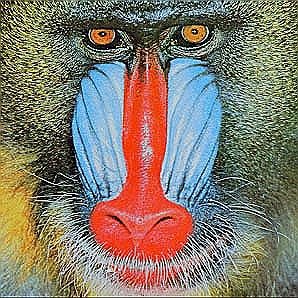
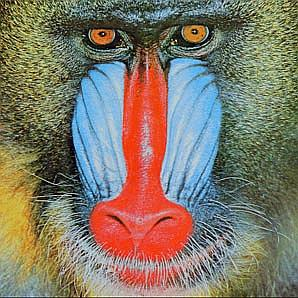
Vingett finished
Also changed kernels to the values given in the assigment and the coresponding normalising factor

diff --git a/Week_5_6/A2.java b/Week_5_6/A2.java
@@ -27,15 +27,15 @@ public class A2 {
     public static void blur(final Picture input) {
         Picture pic = new Picture(input);
         
-        //gausian blur aproximation
+        //Box blur (normalized)
         // https://en.wikipedia.org/wiki/Kernel_(image_processing)#Details
         int[][] kernel = {
-                { 1, 2, 1 },
-                { 2, 4, 2 },
-                { 1, 2, 1 }
+                { 1, 1, 1 },
+                { 1, 1, 1 },
+                { 1, 1, 1 }
         };
 
-        double normalFactor = 0.0625; //mutiply this later on to normalize the matrix(?) so the avrage values/brighness of the images does not unexpectadly increase.
+        double normalFactor = 9; //devide by this later on to normalize the matrix(?) so the avrage values/brighness of the images does not unexpectadly increase.
 
         for (int x = 1; x < input.width() - 1; x++) {
             for (int y = 1; y < input.height() - 1; y++) { 
@@ -54,15 +54,15 @@ public class A2 {
                 }
 
                 //for future. optamize this using a vector3 for each channel value. so instead of three version of each variable you only have a vector3. 
-                double totalR = acumulatorR * normalFactor;
-                double totalG = acumulatorG * normalFactor;
-                double totalB = acumulatorB * normalFactor;
+                double totalR = acumulatorR / normalFactor;
+                double totalG = acumulatorG / normalFactor;
+                double totalB = acumulatorB / normalFactor;
 
 
                 pic.set(x, y, new Color(
-                    (int)totalR, 
-                    (int)totalG, 
-                    (int)totalB)
+                    clamp((int)totalR, 0, 255),
+                    clamp((int)totalG, 0, 255),
+                    clamp((int)totalB, 0, 255))
                 );
  
             }
@@ -78,15 +78,15 @@ public class A2 {
 
         Picture pic = new Picture(input);
 
-        // sharpening
-        // https://en.wikipedia.org/wiki/Kernel_(image_processing)#Details
+        
+        //whack ass kernel
         int[][] kernel = {
-                { 0, -1, 0 },
-                { -1, 5, -1 },
-                { 0, -1, 0 }
+                { -1, -1, -1 },
+                { -1, 16, -1 },
+                { -1, -1, -1 }
         };
 
-        double normalFactor = 1; // why is this 1 for sharpening????
+        double normalFactor = 8; // why is this 1 for sharpening????
 
         for (int x = 1; x < input.width() - 1; x++) {
             for (int y = 1; y < input.height() - 1; y++) {
@@ -106,9 +106,9 @@ public class A2 {
 
                 // for future. optamize this using a vector3 for each channel value. so instead
                 // of three version of each variable you only have a vector3.
-                double totalR = acumulatorR * normalFactor;
-                double totalG = acumulatorG * normalFactor;
-                double totalB = acumulatorB * normalFactor;
+                double totalR = acumulatorR / normalFactor;
+                double totalG = acumulatorG / normalFactor;
+                double totalB = acumulatorB / normalFactor;
                 //System.out.println(totalR);
                 
                 pic.set(x, y, new Color(
@@ -127,7 +127,38 @@ public class A2 {
         // Mind what you have to do with the ootput (show, save)
     }
 
-    public static void vignette(Picture pic) {
+    public static void vignette(Picture input) {
+        Picture pic = new Picture(input);
+        int centerX = input.width() / 2;
+        int centery = input.height() / 2;
+        
+        for (int x = 0; x < input.width() - 1; x++) {
+            for (int y = 0; y < input.height() - 1; y++) {
+                //math formula d = sqrt((x_2 - x_1 )^2 + (y_2 - y_1)^2)
+                double distance = Math.sqrt(Math.pow((x - centerX),2) + Math.pow(y - centery, 2));
+                distance = (255 - distance)/255;
+                Color tmp = input.get(x, y);
+                
+                //System.out.println(tmp.getBlue() + " * " + distance);
+                tmp = new Color(
+                    (int)(tmp.getRed() * distance), 
+                    (int)(tmp.getGreen() * distance), 
+                    (int)(tmp.getBlue() * distance)
+                );
+                
+                
+                //tmp = new Color((int)distance, (int)distance, (int)distance);
+
+                //System.out.println(distance);
+                pic.set(x, y, tmp);
+
+            }
+        }
+
+        pic.show();
+        pic.save("pic7.jpg");
+
+
         // Implement the vignete method
         // Mind what you have to do with the ootput (show, save)
     }
@@ -147,7 +178,7 @@ public class A2 {
         input.show();
         blur(input);
         sharpen(input);
-
+        vignette(input);
 
 
 
